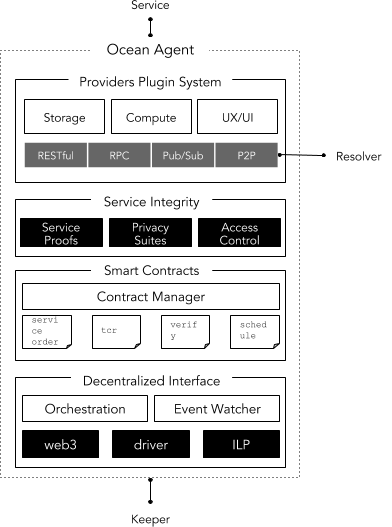
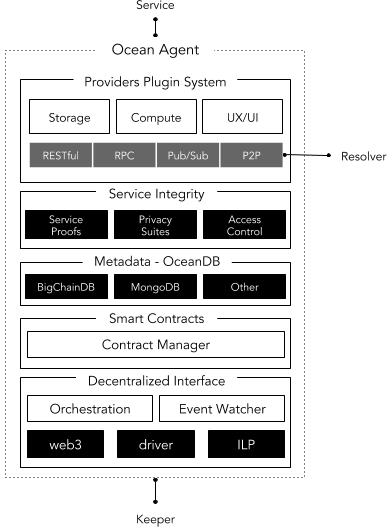
general refactor

Changed region(s): [[0.0, 0.0, 0.9796, 1.0], [0.6122, 0.1214, 0.7347, 0.1518], [0.0612, 0.1214, 0.1837, 0.1518]]

diff --git a/4/README.md b/4/README.md
@@ -6,35 +6,34 @@ status: Raw
 editor: Aitor Argomaniz <aitor@oceanprotocol.com>
 contributors: Dimitri De Jonghe <dimi@oceanprotocol.com>
 ```
+
 Table of Contents
 =================
 
-  * [Table of Contents](#table-of-contents)
-  * [Ocean Agent Architecture](#ocean-agent-architecture)
-     * [Change Process](#change-process)
-     * [Language](#language)
-     * [Motivation](#motivation)
-     * [Design Requirements](#design-requirements)
-     * [Agent Protocol Stack](#agent-protocol-stack)
-     * [Plugin System](#plugin-system)
-        * [Service Plugins](#service-plugins)
-        * [Interfaces](#interfaces)
-     * [Service Integrity Layer](#service-integrity-layer)
-        * [Service Proofs](#service-proofs)
-        * [Privacy](#privacy)
-        * [Access Control](#access-control)
-           * [Authentication](#authentication)
-           * [Authorization](#authorization)
-     * [Contract Management](#contract-management)
-     * [Decentralized Interface](#decentralized-interface)
-        * [Orchestration Layer](#orchestration-layer)
-        * [Events Watcher](#events-watcher)
-        * [Data Transfer Objects](#data-transfer-objects)
-        * [Private Key Infrastructure (PKI)](#private-key-infrastructure-pki)
-           * [Accounts](#accounts)
-           * [Wallets](#wallets)
-     * [Connection to External Modules](#connection-to-external-modules)
-        * [Ocean DB integration](#ocean-db-integration)
+   * [Table of Contents](#table-of-contents)
+   * [Ocean Agent Architecture](#ocean-agent-architecture)
+      * [Change Process](#change-process)
+      * [Language](#language)
+      * [Motivation](#motivation)
+      * [Design Requirements](#design-requirements)
+      * [Agent Protocol Stack](#agent-protocol-stack)
+      * [Plugin System](#plugin-system)
+         * [Service Plugins](#service-plugins)
+         * [Interfaces](#interfaces)
+      * [Service Integrity Layer](#service-integrity-layer)
+         * [Service Proofs](#service-proofs)
+         * [Privacy](#privacy)
+         * [Access Control](#access-control)
+            * [Authentication](#authentication)
+            * [Authorization](#authorization)
+      * [Contract Management](#contract-management)
+      * [Decentralized Interface](#decentralized-interface)
+         * [Orchestration Layer](#orchestration-layer)
+         * [Events Watcher](#events-watcher)
+         * [Data Transfer Objects](#data-transfer-objects)
+      * [Connection to External Modules](#connection-to-external-modules)
+         * [Ocean DB integration](#ocean-db-integration)
+
 
 # Ocean Agent Architecture
 
@@ -52,10 +51,10 @@ The key words "MUST", "MUST NOT", "REQUIRED", "SHALL", "SHALL NOT", "SHOULD", "S
 
 ## Motivation
 
-The goal of this document is to describe the responsibilities and architecture of an Ocean AGENT node. 
+The goal of this document is to describe the responsibilities and architecture of an Ocean AGENT node. Also referenced as PROVIDER in some documents.
 
 In the Ocean network, AGENTS implement a variety of behavior that contribute data services to the network.
-For example: AGENTS can provide services such as data sets, algorithms, storage, computational power, service curation, 
+For example: AGENTS can provide access to services such as data sets, algorithms, storage, computational power, service curation,
 verification, market makers and so on.  
 
 AGENTS need to be able to talk to each other as well as to the network KEEPERS.
@@ -74,7 +73,8 @@ AGENT is client-side software. The main responsibilities of AGENT are:
 * Facilitate the integration of various Ocean services 
 * Enable the communication between AGENTS and with the KEEPER network
 * Exposing a common and stable interface to network consumers
-* Integrate with external services or providers (compute, data, orchestration, ...)
+* Integrate with external metadata providers
+* Integrate with external services or providers (compute, data, metadata, ...)
 * Exposing a cryptographically secure interface for off-chain service proofs, privacy and access control 
 * Implement necessary identity components for authentication and authorization of AGENTS
 * Compose valid transactions to interact with the keeper network 
@@ -98,7 +98,7 @@ object models using the incoming messages provided by the **KEEPER components in
 This marshaling and un-marshaling operations will allow using a common internal data model across all the application. 
 
 The Agent also will orchestrate the interaction with the Keeper components, allowing to provide a high level view 
-from the consumer side, interacting with the decentralized VM and the **Ocean DB**.
+from the consumer side, interacting with the decentralized VM and the **Ocean DB** (Metadata storage).
 
 ![Protocol Stack](images/agent-components.png)
 
@@ -156,17 +156,6 @@ From there onwards, the integration with the rest of the system is abstracted.
 Depending on the implementation of the system, the usage of one plugin or another one 
 could be made by configuration or using dependency injection.
 
-```java
-public StorageProvider interface {
-
-    bool store(Asset asset);
-    Asset retrieve(URL url);
-    ..
-}
-```
-
-Details of the plugin system are discussed in [#TODO:OEP-PLUGIN](../<PLUGIN>/README.md)
-
 ### Interfaces
 
 Interfaces are charge of interacting with off-chain services, libraries, cloud/micro-services and more.
@@ -220,7 +209,7 @@ enabling the communications allowing to challenge/retrieve the required Proofs o
 
 Using the [Service Plugins](#service-plugins) system, this module will interface with off-chain providers to obtain the proofs needed.
 
-Details of the service proofs are discussed in [#TODO:OEP-PROOFS](../<PROOFS>/README.md) 
+Details of the service proofs will be discussed in an independent OEP.
 
 ### Privacy
 
@@ -239,22 +228,14 @@ implementing some privacy capabilities.
 
 In such scenario of one can assume that different users running Ocean Agents can require and implement 
 different privacy capabilities to negotiate with other agents. This means that each AGENT will define a list 
-of the **"privacy systems"** supported. For example:
-
-```
-privacy {
-	mpc= "sign,encrypt,query"
-	tee= "intel,arm"
-	zk= "syft,libsnarks"
-}
-```
+of the **"privacy systems"** supported.
 
 In order to establish a successful connection, 2 different AGENT's SHOULD share the information about their supported 
 privacy suits using a handshake protocol. If they have a common or compatible method, the exchange of messages can
 be bidirectionally encoded and decoded. 
 
 
-Details of the privacy module are discussed in [#TODO:OEP-PRIVACY](../<PRIVACY>/README.md) 
+Details of the privacy module will be discussed in an independent OEP.
 
 ### Access Control
 
@@ -272,7 +253,7 @@ _Authenticated_ and _Authorized_ in the system, allowing (or denying) the manage
 In general, authentication is the process of validating that somebody really is who he claims to be. 
 Authorization refers to rules that determine who is allowed to do what.  
 
-Details of the access module are discussed in [#TODO:OEP-ACCESS](../<ACCESS>/README.md) 
+Details of the access module are discussed in the [On-Chain Access Control OEP](../10/README.md)
 
 #### Authentication
 
@@ -314,7 +295,7 @@ The contract management layer foresees the coordination of a service CONTRACT be
 Example contract protocols include peer-to-peer escrow contracts, marketplace-based contracts, 
 as well as CONTRACT resolution mechanisms such as judging and verification.
 
-Details of the contract management layer are discussed in [#TODO:OEP-CONTRACT-MANAGEMENT](../<CONTRACT-MANAGEMENT>/README.md) 
+Details of the contract management will be discussed in an independent OEP.
 
 ## Decentralized Interface
 
@@ -324,7 +305,7 @@ This layer provides account management libraries and ensures that ledger-specifi
 This layer SHOULD also listen to events generated by state changes on the keeper 
 and provide necessary callbacks and hooks. 
 
-Details of the identity layer are discussed in [#TODO:OEP-WALLET](../<WALLET>/README.md) 
+Details of the identity layer will be discussed in an independent OEP.
 
 ### Orchestration Layer
 
@@ -360,21 +341,6 @@ Events expose notifications from the KEEPERS network when relevant actions happe
 From the AGENT side, the events watcher module will be in charge of watching those events 
 to trigger further actions. 
 
-```javascript
-var subscription = web3.eth.subscribe('logs', {
-    address: '0x123456..',
-    topics: ['0x12345...']
-}, function(error, result){
-    if (!error)
-        console.log(log);
-});
-
-// unsubscribe from an event stream
-subscription.unsubscribe(function(error, success){
-    if(success)
-        console.log('Successfully unsubscribed!');
-});
-```
 
 The AGENT will provide the interfaces to:
 
@@ -400,58 +366,12 @@ Initially, HTTP RPC is the easiest candidate to integrate in the communication w
 To interact with the Smart Contracts, the AGENT will provide different [Data Transfer Objects](https://en.wikipedia.org/wiki/Data_transfer_object) (DTO). 
 Those will allow to abstract the integration with the contracts in an easier way.
 
-![Keeper Communication](images/orchestration-dtos.png)
-
-The worker nodes will expose a p2p interface supporting some commands allowing to raise proof challenges.
-
-The implementation of this module is highly linked to the Keeper API definition. 
-
-
-### Private Key Infrastructure (PKI)
-
-#### Accounts
-
-An account is a human-readable identifier (public key) stored on the decentralized VM. 
-Every transaction has its permissions evaluated under the configured authority of an account. 
-The grants of each account will be validated by the access control system. 
-The user permissions must be met for a transaction signed under that authority to be considered valid. 
-Transactions are signed by a client that has a loaded and unlocked a wallet. 
-
-The AGENT will provide the capabilities to manage the accounts creation. 
-It will use the [BIP32](https://github.com/bitcoin/bips/blob/master/bip-0032.mediawiki) definition for the creation of wallets and accounts.
-An example implementation is the **Accounts API** provided by the **Parity** client.
-
-This will be detailed in the [Actors Registry OEP 13](../13/REG). 
-
-#### Wallets
-
-The wallet component is in charge of protecting and using sensitive information such as private keys. 
-These keys may or may not be granted permission to an account authority on the KEEPER level.
-A wallet manages a private/public key pair which is used to cryptographically sign transactions and 
-prove ownership on the network. The Ocean Agent will provide the wallet capabilities that allows 
-the monetary interactions in the network.
-
-The reference for wallet definitions to be used are:
-
-* [BIP32](https://github.com/bitcoin/bips/blob/master/bip-0032.mediawiki) - Describes hierarchical deterministic 
-wallets (or "HD Wallets"). Those are wallets which can be shared partially or entirely with different 
-systems, each with or without the ability to spend coins. 
-* [BIP39](https://github.com/bitcoin/bips/blob/master/bip-0039.mediawiki) - Describes the 
-implementation of a mnemonic code or mnemonic sentence, a group of easy to remember words, 
-for the generation of deterministic wallets.
-* [BIP44](https://github.com/bitcoin/bips/blob/master/bip-0044.mediawiki) - Defines a logical 
-hierarchy for deterministic wallets based on an algorithm described in BIP32, 
-and purpose scheme described in [BIP43](https://github.com/bitcoin/bips/blob/master/bip-0043.mediawiki).
-
-As an example, the management of the Wallets can be implemented using the **Parity** client.
-More information will be provided in the [Actors Registry OEP](../13/README.md) and [Wallet OEP](../README.md). 
-
 ## Connection to External Modules
 
 The AGENT will connect to:
 
 * **Decentralized VM** - Providing the smart contracts implementing the core business logic
-* **Ocean DB** - Interfacing with an external and pluggable storage system
+* **Ocean DB** - Interfacing with an external and pluggable Metadata storage system
 * **Ocean Worker** - Accepts cryptographic challenges and validations via p2p commands 
 
 Those capabilities will be integrated from the AGENT using different protocols. 
@@ -476,48 +396,6 @@ defining only the interfaces allows to integrate a centralized (Oracle, Kafka, E
 
 The AGENT SHALL provide a mechanism to check the config parameters given during the start-up of the process.
 Depending on those parameters the AGENT will invoke the plugin at runtime if a backend is provided.
-
-Below you can find an example of a configuration file enabling the integration with an external system: 
-
-```properties
-
-# It could be true or false, false by default
-agent.backend.enabled=true
-
-agent.backend.implClass=com.example.mydatabase.MyDatabaseImpl
-
-# All the options in the config tree can be passed as parameters to the backend plugin
-agent.backend.config.hostname=localhost
-agent.backend.config.port=1234
-agent.backend.config.user=john
-agent.backend.config.password=john
-agent.backend.config.xxxx=WhateverNeeded
-
-``` 
-
-And this could be the initial definition of a generic interface:
-
-```java
-
-public abstract class OceanPluginFactory {
-    
-    public static OceanPluginFactory builder(Config config) {}
-    
-}
-
-public interface OceanBackendPlugin {
-    
-    public boolean connect(Config conf);
-    
-    public boolean disconnect();
-    
-    public boolean isConnected();
-    
-    public boolean write(List<T> items);
-    
-}
-
-```
 
 The Orchestration Layer will be in charge or invoke the optional backend if it's provided. 
 As a rule of thumb, the Decentralized VM is always the main and minimal storage and source of truth of the system.
